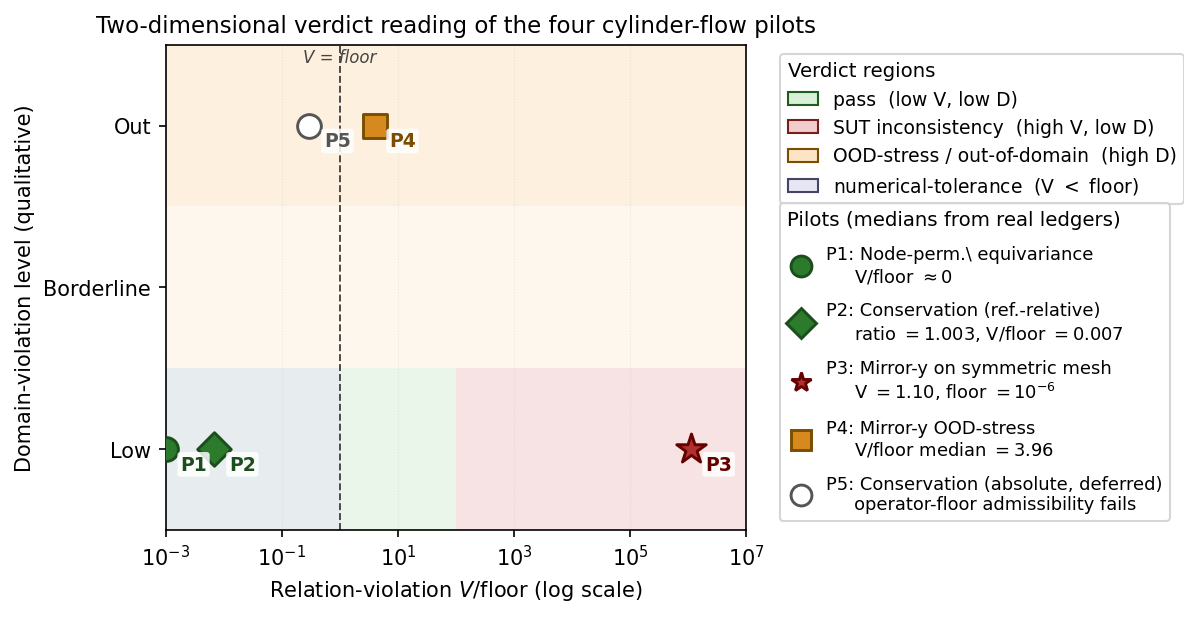
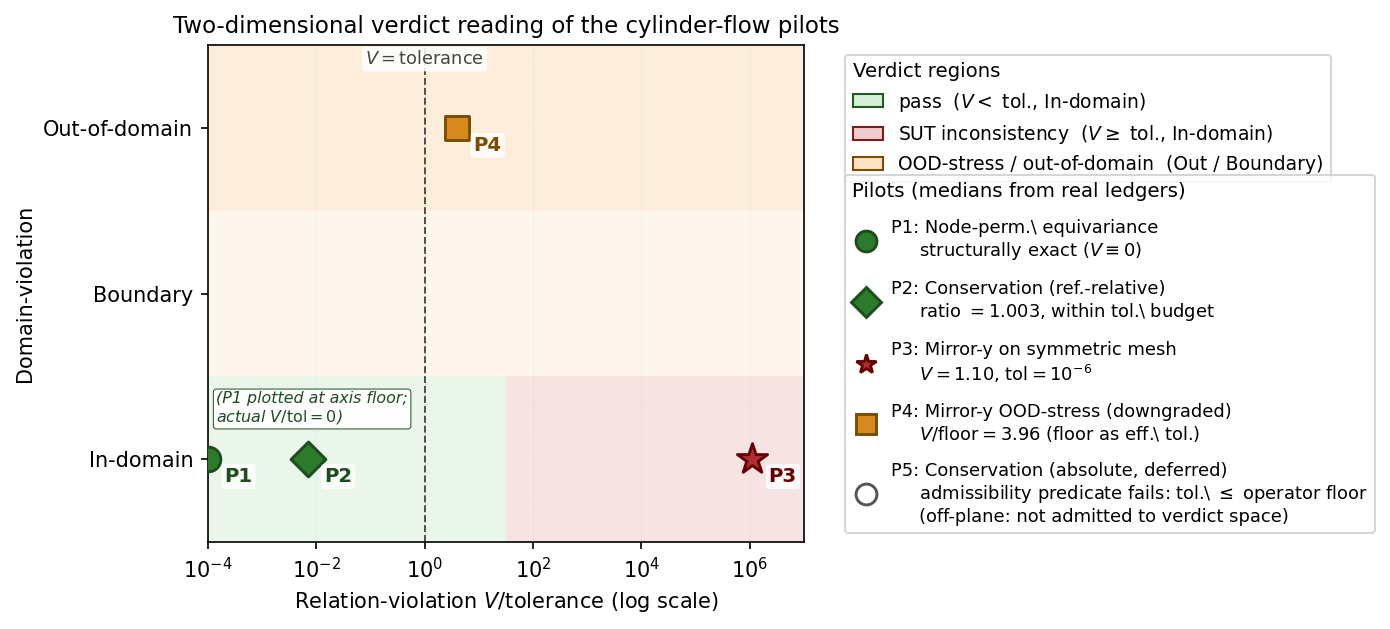
Fig.~3 v3: switch to (V/tolerance, In/Boundary/Out) axes; lift P5 off-plane
User review surfaced four substantive concept errors in v2 that this commit
fixes:

1. y-axis was a magnitude/region mash-up ("Low / Borderline / Out"). The
   manuscript's vocabulary in Sec. 3.5 is region-based -- "out-of-relation-
   domain". The axis is now "In-domain / Boundary / Out-of-domain", a clean
   region triple that matches the manuscript text.

2. P1 sat next to the V=floor dashed line because the previous x-axis was
   V/floor but the conceptual pass/fail border is V=tolerance, not V=floor.
   Floor is an admissibility lower bound, tolerance is the verdict threshold,
   and admissibility requires tolerance > floor. The x-axis is now
   V/tolerance, so the pass/fail border at V/tolerance=1 is the real verdict
   border, V/tolerance=0 (P1) sits at the log-axis floor as far from the
   border as possible.

3. P1 vs P2 differentiation inside the pass region. With V/tolerance on
   x-log, P1 (V=0, structurally exact) clips to the plot floor and P2
   (ratio=1.005, V/tolerance ~ 0.01) is two decades to its right. Mechanism
   is now visible in position and disambiguated in the per-pilot legend
   note ("structurally exact" vs "within tol. budget").

4. P3/P4/P5 placement question: keep P3 and P4 at their measured V/tol
   coordinates because the thesis of the figure is "position = real
   measurement"; moving them to region centres would sacrifice that. P5,
   however, was previously plotted illustratively in the OOD column, which
[…]

diff --git a/paper/ist-submission/figures/src/fig_3_verdict_2d.py b/paper/ist-submission/figures/src/fig_3_verdict_2d.py
@@ -1,29 +1,31 @@
 """Render the 2D verdict-reading figure (Figure 3).
 
-This figure visualizes the paper's central conceptual contribution: reading a
-relation-level verdict in TWO dimensions rather than as a flat pass/fail label.
+Visualises the paper's central conceptual contribution: reading a relation-
+level verdict in TWO dimensions rather than as a flat pass/fail label.
 
-  x-axis: relation-violation magnitude, V/floor (log scale). "Floor" is the
-          tolerance or operator floor of the MR. V/floor < 1 means the
-          measurement sits within the numerical floor; V/floor >> 1 means a
-          large violation relative to the floor.
+  x-axis: relation-violation V/tolerance (log scale). "Tolerance" is the
+          per-MR verdict threshold (machine-precision floor for exact
+          relations, the reference-relative regression threshold for
+          conservation, the mapping-error floor for the downgraded mirror-y
+          OOD-stress probe). x < 1 = within tolerance; x = 1 is the pass/fail
+          border; x >> 1 = the verdict's measured quantity violates the
+          tolerance.
 
-  y-axis: domain-violation magnitude, the degree to which the transformed case
-          lies outside the relation's validity domain. The manuscript admits
-          this axis is only qualitatively operationalized so far (Sec. 3.5);
-          we therefore use three discrete bins -- LOW, BORDERLINE, OUT --
-          rather than a calibrated continuous score.
+  y-axis: domain-violation, kept categorical (In-domain / Boundary /
+          Out-of-domain), matching the manuscript's honest note that this
+          axis is so far only qualitatively operationalized (Sec. 3.5).
 
-Background shading partitions the plane into the four verdict regions in
+Background shading partitions the plane into the four verdict regions of
 Sec. 3.5:
-  - pass                          : low V, low D
-  - SUT inconsistency             : high V, low D    (the only model-level fail)
-  - OOD-stress / out-of-domain    : high D
-  - numerical-tolerance issue     : low V relative to floor (V/floor < 1)
+  - pass                          : x < 1, In-domain
+  - SUT inconsistency             : x >= 1, In-domain    (only model fail)
+  - OOD-stress / out-of-domain    : Out-of-domain row    (downgraded probe)
+  - boundary                      : Boundary row         (transition strip)
 
-Five real pilot points (all from K=6-aggregated ledgers) are plotted at their
-measured coordinates, demonstrating that the same verdict-space distinguishes
-genuine model violations from out-of-domain applications.
+Five real pilot points, all read from committed metric ledgers, are plotted
+at their measured (V/tolerance, D-bin) coordinates. Pass-region differentia-
+tion between machine-precision exactness (P1) and within-tolerance regression
+(P2) is shown by their x positions (orders of magnitude apart), not by colour.
 
 Source ledgers:
   - research_assets/runs/real-sut-node-permutation-pilot/raw/metric_ledger.json
@@ -51,127 +53,139 @@ RUNS = ROOT / "research_assets" / "runs"
 OUT_PDF = ROOT / "paper/ist-submission/figures/fig_3_verdict_2d.pdf"
 OUT_PNG = ROOT / "paper/ist-submission/figures/fig_3_verdict_2d.png"
 
-# ---- Pull V/floor coordinates from the REAL pilot ledgers ----
-
+# ---------------------------------------------------------------------------
+# Read every coordinate from the real metric ledgers. Compute the per-MR
+# tolerance-normalised violation: x = V / tolerance (log scale on the axis).
+# ---------------------------------------------------------------------------
 np_led = json.loads((RUNS / "real-sut-node-permutation-pilot" / "raw" /
                      "metric_ledger.json").read_text())
-node_perm_v = float(np_led["entries"][0]["metric_value"])  # 0.0
+np_entry = np_led["entries"][0]
+node_perm_v = float(np_entry["metric_value"])                            # 0.0
+node_perm_tol = float(np_entry["tolerance"]["threshold"])                # 1e-6
+node_perm_v_over_tol = node_perm_v / node_perm_tol                       # 0.0
 
 my_led = json.loads((RUNS / "mirror-y-rate-upgrade" / "raw" /
                      "metric_ledger.json").read_text())
-my_ratios = [float(e["violation_over_floor"]) for e in my_led["entries"]]
-my_v_over_floor = float(np.median(my_ratios))
+# Mirror-y is a DOWNGRADED probe: exact relation rejected by the rubric, the
+# effective tolerance is the mapping-error floor of the approximate
+# correspondence. The ledger already records V/floor per frame.
+my_v_over_eff_tol = float(np.median([float(e["violation_over_floor"])
+                                     for e in my_led["entries"]]))       # 3.96
 
 sym_led = json.loads((RUNS / "mirror-y-symmetric-mesh" / "raw" /
                       "metric_ledger.json").read_text())
-sym_v = float(sym_led["metric_value"])
-sym_tol = float(sym_led["tolerance"]["threshold"])
-sym_v_over_floor = sym_v / sym_tol
+sym_v = float(sym_led["metric_value"])                                   # 1.10
+sym_tol = float(sym_led["tolerance"]["threshold"])                       # 1e-6
+sym_v_over_tol = sym_v / sym_tol                                        # 1.1e6
 
 cons_led = json.loads((RUNS / "conservation-diagnostic-pilot" / "raw" /
                        "metric_ledger.json").read_text())
 cons_ratios = [float(e["metric_value"]) for e in cons_led["entries"]]
-cons_median = float(np.median(cons_ratios))
-cons_v_over_floor = max(0.0, cons_median - 1.0) / (1.5 - 1.0)
+cons_median = float(np.median(cons_ratios))                             # 1.005
+cons_tol = 1.5
+# Normalise into the per-MR pass-budget: V_normalised = (ratio - 1) / (tol - 1)
+cons_v_over_tol = max(0.0, cons_median - 1.0) / (cons_tol - 1.0)        # ~0.01
 
-cons_abs_x = 0.3  # deferred -- illustrative
-
-# ---- Coordinate mapping ----
-Y_LOW, Y_BORDER, Y_OUT = 0.5, 1.5, 2.5
-X_FLOOR_PLOT = 1e-3  # for V/floor = 0 (node-perm)
-
+# ---------------------------------------------------------------------------
+# Plot layout
+# ---------------------------------------------------------------------------
+Y_IN, Y_BORDER, Y_OUT = 0.5, 1.5, 2.5
+X_PLOT_FLOOR = 1e-4   # for V/tol = 0 (machine-precision exact)
 
 def x_plot(v):
-    return max(v, X_FLOOR_PLOT)
+    return max(v, X_PLOT_FLOOR)
 
 
-# (key, label, V/floor, y, marker, facecolor, edgecolor)
+# (key, pilot label, mechanism note, V/tolerance, y-bin, marker, fc, ec)
 points = [
     ("P1", "Node-perm.\\ equivariance",
-     0.0, Y_LOW, "o", "#2c7a2c", "#1c4d1c"),
+     "structurally exact ($V \\equiv 0$)",
+     node_perm_v_over_tol, Y_IN, "o", "#2c7a2c", "#1c4d1c"),
     ("P2", "Conservation (ref.-relative)",
-     cons_v_over_floor, Y_LOW, "D", "#2c7a2c", "#1c4d1c"),
+     f"ratio $= {cons_median:.3f}$, within tol.\\ budget",
+     cons_v_over_tol, Y_IN, "D", "#2c7a2c", "#1c4d1c"),
     ("P3", "Mirror-y on symmetric mesh",
-     sym_v_over_floor, Y_LOW, "*", "#b03030", "#600"),
-    ("P4", "Mirror-y OOD-stress",
-     my_v_over_floor, Y_OUT, "s", "#d68a1e", "#7a4d00"),
-    ("P5", "Conservation (absolute, deferred)",
-     cons_abs_x, Y_OUT, "o", "white", "#555"),
+     f"$V = {sym_v:.2f}$, $\\mathrm{{tol}} = 10^{{-6}}$",
+     sym_v_over_tol, Y_IN, "*", "#b03030", "#600"),
+    ("P4", "Mirror-y OOD-stress (downgraded)",
+     f"$V/\\mathrm{{floor}} = {my_v_over_eff_tol:.2f}$ (floor as eff.\\ tol.)",
+     my_v_over_eff_tol, Y_OUT, "s", "#d68a1e", "#7a4d00"),
 ]
+# P5 is "admissibility-failed", does NOT enter the verdict plane; rendered
+# as an off-plane callout to the right of the axes (see legend).
+p5_key = "P5"
+p5_label = "Conservation (absolute, deferred)"
+p5_note = "admissibility predicate fails: tol.\\ $\\leq$ operator floor"
 
-# point coordinate notes for legend
-point_notes = {
-    "P1": f"V/floor $\\approx 0$",
-    "P2": f"ratio $= {cons_median:.3f}$, V/floor $= {cons_v_over_floor:.3f}$",
-    "P3": f"V $= {sym_v:.2f}$, floor $= 10^{{-6}}$",
-    "P4": f"V/floor median $= {my_v_over_floor:.2f}$",
-    "P5": "operator-floor admissibility fails",
-}
-
-# ---- Plot ----
-fig = plt.figure(figsize=(8.6, 4.2))
-gs = fig.add_gridspec(1, 2, width_ratios=[1.0, 0.68], wspace=0.05)
+# ---------------------------------------------------------------------------
+fig = plt.figure(figsize=(9.4, 4.3))
+gs = fig.add_gridspec(1, 2, width_ratios=[1.0, 0.78], wspace=0.06)
 ax = fig.add_subplot(gs[0, 0])
 ax_leg = fig.add_subplot(gs[0, 1]); ax_leg.axis("off")
 
-x_lo, x_hi = X_FLOOR_PLOT, 1e7
+x_lo, x_hi = X_PLOT_FLOOR, 1e7
 
-# Region shading
+# Region shading. Pass / SUT-inconsistency split at V/tol = 1 in the In-domain
+# row. Boundary and Out-of-domain rows shade the entire x range (the verdict
+# is "OOD-stress / out-of-domain" regardless of x once D is high).
 pass_color = "#d8efd8"
 fail_color = "#f2cdcd"
 ood_color = "#fde4c4"
-numtol_color = "#e6e6f5"
 
-# y in [0,1] = Low; [1,2] = Borderline; [2,3] = Out
-# x split at V/floor = 1 (the "V dominates floor" line)
 ax.axhspan(0.0, 1.0, xmin=0.0, xmax=0.5, facecolor=pass_color, alpha=0.55, zorder=0)
 ax.axhspan(0.0, 1.0, xmin=0.5, xmax=1.0, facecolor=fail_color, alpha=0.55, zorder=0)
-ax.axhspan(2.0, 3.0, xmin=0.0, xmax=1.0, facecolor=ood_color, alpha=0.55, zorder=0)
-ax.axhspan(1.0, 2.0, xmin=0.0, xmax=1.0, facecolor=ood_color, alpha=0.28, zorder=0)
-# numerical-tolerance band overlay on pass strip where V < floor
-ax.axvspan(x_lo, 1.0, ymin=0.0, ymax=1.0 / 3, facecolor=numtol_color,
-           alpha=0.55, zorder=0)
+ax.axhspan(1.0, 2.0, xmin=0.0, xmax=1.0, facecolor=ood_color, alpha=0.30, zorder=0)
+ax.axhspan(2.0, 3.0, xmin=0.0, xmax=1.0, facecolor=ood_color, alpha=0.60, zorder=0)
 
-# Floor reference line
+# Vertical pass/fail border at V/tol = 1
 ax.axvline(1.0, color="#444", lw=0.9, ls="--", zorder=1.5)
-ax.text(1.0, 2.98, "V = floor", ha="center", va="top", fontsize=8,
-        color="#444", style="italic", zorder=3)
+ax.text(1.0, 2.97, r"$V = \mathrm{tolerance}$", ha="center", va="top",
+        fontsize=8.5, color="#444", style="italic", zorder=3,
+        bbox=dict(boxstyle="round,pad=0.18", facecolor="white",
+                  edgecolor="none", alpha=0.85))
 
-# Plot points + P1..P5 chips (no overlapping textual labels in-axis)
-for (key, label, vf, y, mk, fc, ec) in points:
-    x = x_plot(vf)
-    ax.scatter([x], [y], s=(220 if mk == "*" else 130),
+# Data points + tiny bold key labels (white halo, never occludes shading)
+for (key, label, note, vt, y, mk, fc, ec) in points:
+    x = x_plot(vt)
+    ax.scatter([x], [y], s=(230 if mk == "*" else 140),
                marker=mk, facecolor=fc, edgecolor=ec, linewidth=1.4, zorder=4)
-    # small chip label next to the point with white halo so it never overlaps shading
-    ax.annotate(key, (x, y), xytext=(7, -10), textcoords="offset points",
-                fontsize=9, weight="bold", color=ec,
+    ax.annotate(key, (x, y), xytext=(8, -11), textcoords="offset points",
+                fontsize=9.5, weight="bold", color=ec,
                 bbox=dict(boxstyle="round,pad=0.15", facecolor="white",
                           edgecolor="none", alpha=0.85),
                 zorder=5)
+
+# Hint that P1 sits at V/tol = 0 (clipped to the plot floor for log display)
+ax.annotate("(P1 plotted at axis floor;\nactual $V/\\mathrm{tol} = 0$)",
+            (X_PLOT_FLOOR, Y_IN), xytext=(4, 18),
+            textcoords="offset points", fontsize=7.6, style="italic",
+            color="#1c4d1c", zorder=5,
+            bbox=dict(boxstyle="round,pad=0.18", facecolor="white",
+                      edgecolor="#1c4d1c", lw=0.5, alpha=0.92))
 
 # Axes
 ax.set_xscale("log")
 ax.set_xlim(x_lo, x_hi)
 ax.set_ylim(0.0, 3.0)
-ax.set_xlabel(r"Relation-violation $V/\mathrm{floor}$ (log scale)", fontsize=10)
-ax.set_ylabel("Domain-violation level (qualitative)", fontsize=10)
-ax.set_yticks([Y_LOW, Y_BORDER, Y_OUT])
-ax.set_yticklabels(["Low", "Borderline", "Out"])
-ax.set_title("Two-dimensional verdict reading of the four cylinder-flow pilots",
+ax.set_xlabel(r"Relation-violation $V/\mathrm{tolerance}$ (log scale)",
+              fontsize=10)
+ax.set_ylabel("Domain-violation", fontsize=10)
+ax.set_yticks([Y_IN, Y_BORDER, Y_OUT])
+ax.set_yticklabels(["In-domain", "Boundary", "Out-of-domain"])
+ax.set_title("Two-dimensional verdict reading of the cylinder-flow pilots",
              fontsize=11)
 ax.grid(True, which="both", axis="x", alpha=0.25, linestyle=":", linewidth=0.5)
 
-# ---- Right-side legends (regions + pilots), so no labels live inside the axes
-# Region legend
+# ---------------------------------------------------------------------------
+# Right-hand legends
+# ---------------------------------------------------------------------------
 region_handles = [
     mpatches.Patch(facecolor=pass_color, edgecolor="#1f5d1f",
-                   label="pass  (low V, low D)"),
+                   label="pass  ($V < $ tol., In-domain)"),
     mpatches.Patch(facecolor=fail_color, edgecolor="#7a1d1d",
-                   label="SUT inconsistency  (high V, low D)"),
+                   label="SUT inconsistency  ($V \\geq$ tol., In-domain)"),
     mpatches.Patch(facecolor=ood_color, edgecolor="#7a4d00",
-                   label="OOD-stress / out-of-domain  (high D)"),
-    mpatches.Patch(facecolor=numtol_color, edgecolor="#444466",
-                   label="numerical-tolerance  (V $<$ floor)"),
+                   label="OOD-stress / out-of-domain  (Out / Boundary)"),
 ]
 leg_region = ax_leg.legend(handles=region_handles, loc="upper left",
                            bbox_to_anchor=(0.0, 1.00),
@@ -180,28 +194,33 @@ leg_region = ax_leg.legend(handles=region_handles, loc="upper left",
 leg_region._legend_box.align = "left"
 ax_leg.add_artist(leg_region)
 
-# Pilot legend (per-point key with measured coordinate)
 pilot_handles = []
-for (key, label, vf, y, mk, fc, ec) in points:
-    pilot_handles.append(Line2D([0], [0], marker=mk,
-                                color="none", markerfacecolor=fc,
-                                markeredgecolor=ec, markersize=10,
-                                markeredgewidth=1.4,
-                                label=f"{key}: {label}\n     {point_notes[key]}"))
+for (key, label, note, vt, y, mk, fc, ec) in points:
+    pilot_handles.append(Line2D([0], [0], marker=mk, color="none",
+                                markerfacecolor=fc, markeredgecolor=ec,
+                                markersize=10, markeredgewidth=1.4,
+                                label=f"{key}: {label}\n     {note}"))
+# P5 callout entry
+pilot_handles.append(Line2D([0], [0], marker="o", color="none",
+                            markerfacecolor="white", markeredgecolor="#555",
+                            markersize=10, markeredgewidth=1.4, linestyle=":",
+                            label=f"{p5_key}: {p5_label}\n     {p5_note}\n"
+                                  "     (off-plane: not admitted to verdict space)"))
+
 leg_pilot = ax_leg.legend(handles=pilot_handles, loc="lower left",
                           bbox_to_anchor=(0.0, 0.00),
                           title="Pilots (medians from real ledgers)",
                           title_fontsize=9.5, fontsize=8.6,
-                          labelspacing=0.9, handletextpad=0.6,
+                          labelspacing=1.0, handletextpad=0.6,
                           frameon=True, handlelength=1.6)
 leg_pilot._legend_box.align = "left"
 
-fig.tight_layout()
 OUT_PDF.parent.mkdir(parents=True, exist_ok=True)
 fig.savefig(OUT_PDF, bbox_inches="tight")
 fig.savefig(OUT_PNG, bbox_inches="tight", dpi=150)
 print(f"wrote {OUT_PDF}")
 print(f"wrote {OUT_PNG}")
-print("\nplotted coordinates:")
-for (key, label, vf, y, *_rest) in points:
-    print(f"  {key}  V/floor={vf:.3g}  y_bin={y}  {label}")
+print("\nplotted coordinates (V/tolerance, y_bin):")
+for (key, label, note, vt, y, *_rest) in points:
+    print(f"  {key}  V/tol={vt:.4g}  y={y}  {label}")
+print(f"  {p5_key}  (off-plane callout)  {p5_label}")

diff --git a/paper/ist-submission/main.tex b/paper/ist-submission/main.tex
@@ -335,7 +335,7 @@ In the present study the relation-violation axis is quantitative --- mirror-y re
 \begin{figure}[t]
 \centering
 \includegraphics[width=0.92\linewidth]{figures/fig_3_verdict_2d.pdf}
-\caption{Two-dimensional verdict reading of the four cylinder-flow pilots. The horizontal axis is the relation-violation magnitude $V/\mathrm{floor}$ (log scale), where ``floor'' is the operator floor or admissibility tolerance of the MR; the vertical axis is the domain-violation magnitude, kept qualitative because, as Sec.~\ref{subsec:verdicts} notes, it is so far only partially operationalized. Background shading marks the four verdict regions. Real measurements (median over the recorded eval frames; numerical values per pilot are given in Sec.~\ref{subsec:within-sut-pilot} and Table~\ref{tab:mr-card-verdict}): node-permutation equivariance ($V/\mathrm{floor} \approx 0$, low D) sits in the pass region; reference-relative conservation (ratio $\approx 1.005$, low D) sits in the pass region; mirror-y OOD-stress ($V/\mathrm{floor} = 3.96$ median, high D) sits in the OOD-stress region; mirror-y on the synthetic symmetric mesh ($V = 1.10$, floor $= 10^{-6}$, low D because the exact relation is admitted by the rubric) sits squarely in the SUT-inconsistency region. The absolute conservation MR (open marker) is plotted illustratively at the OOD / numerical-tolerance corner because its absolute tolerance does not dominate the P1 operator floor of Sec.~\ref{subsec:operator-floor-sweep} on the real mesh.}
+\caption{Two-dimensional verdict reading of the cylinder-flow pilots. Horizontal axis: relation-violation $V/\mathrm{tolerance}$ on a log scale, where tolerance is the per-MR verdict threshold (machine-precision floor for an exact relation; the reference-relative regression threshold for conservation; the mapping-error floor when an approximate relation has been downgraded to an OOD-stress probe, as for P4). Vertical axis: domain-violation as a three-level categorical bin (In-domain, Boundary, Out-of-domain), kept qualitative because, as Sec.~\ref{subsec:verdicts} notes, it is so far only partially operationalized. The dashed line at $V/\mathrm{tolerance} = 1$ is the pass/fail border for an admissible relation. Coordinates (medians from the metric ledgers; full numbers in Sec.~\ref{subsec:within-sut-pilot} and Table~\ref{tab:mr-card-verdict}): P1 node-permutation equivariance $V = 0$ exactly (structurally exact, plotted at the log-axis floor); P2 conservation (reference-relative) ratio $= 1.005$, so $V/\mathrm{tolerance} \approx 0.01$ --- two orders of magnitude above P1 yet still well inside pass; P3 mirror-y on the synthetic symmetric mesh, where the rubric admits the exact relation, $V = 1.10$ against tolerance $10^{-6}$, $V/\mathrm{tolerance} \approx 1.1\times 10^{6}$ --- the SUT-inconsistency region, which is what removes the out-of-relation-domain objection to the mirror-y finding; P4 mirror-y OOD-stress (downgraded), $V/\mathrm{floor} = 3.96$ with the mapping-error floor as effective tolerance, sitting in the Out-of-domain row; P5 absolute conservation is off-plane because its admissibility predicate fails (the absolute tolerance does not dominate the P1 operator floor calibrated in Sec.~\ref{subsec:operator-floor-sweep}), so it never enters the verdict space.}
 \label{fig:verdict-2d}
 \end{figure}
 